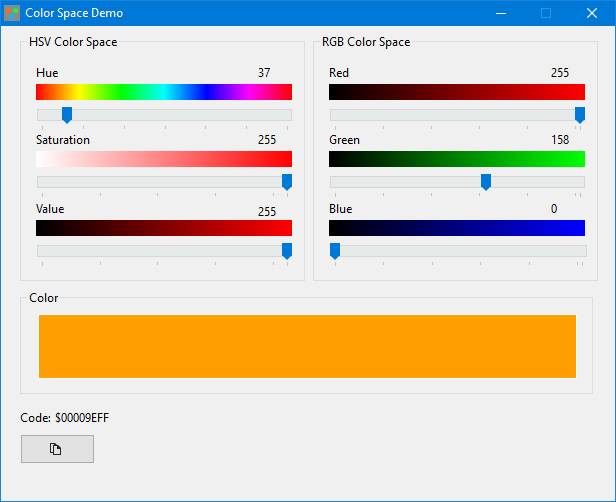
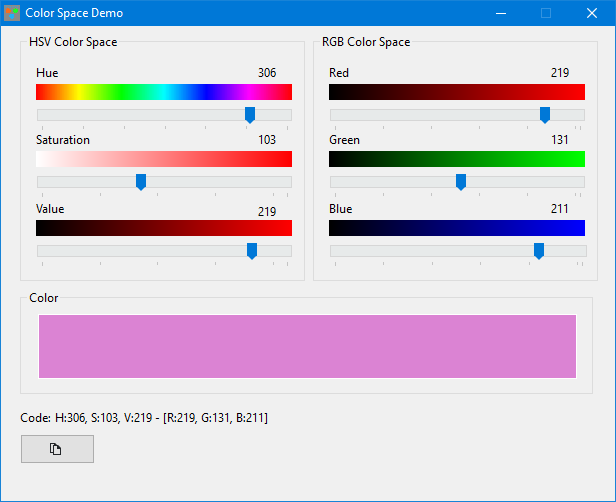
Addes tostring method for HSVColorSpace class.

diff --git a/README.md b/README.md
@@ -1,4 +1,4 @@
-# A color space package for Freepascal.
+# A color space package for Free Pascal.
 The package currently supports conversions between RGB and HSV color spaces. A demo is included as documentation for use case.
 There is a nice article about [HSV color space here](https://en.wikipedia.org/wiki/HSL_and_HSV).
 
